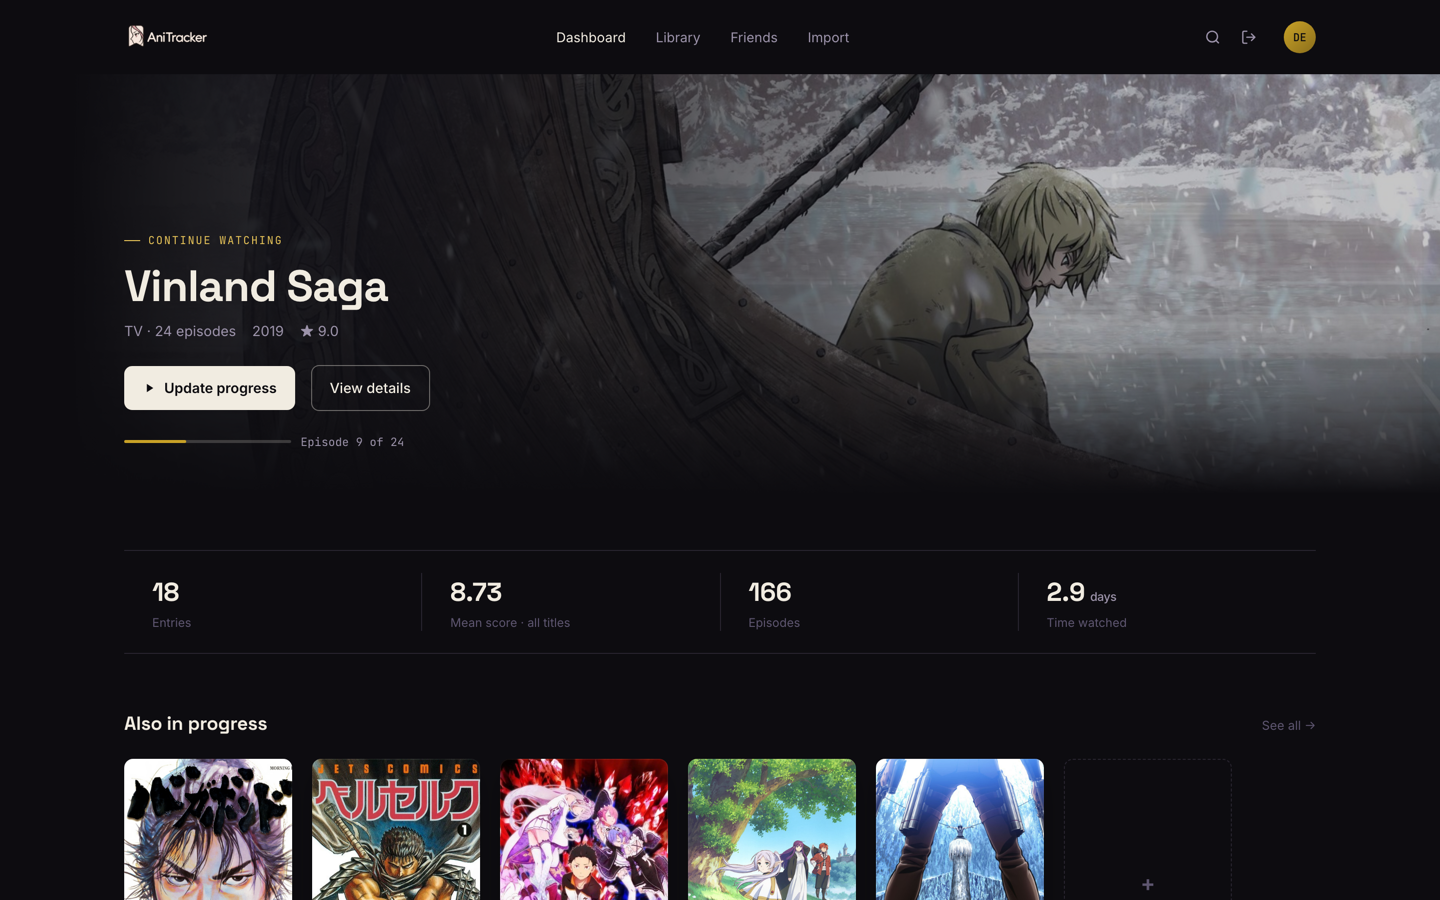
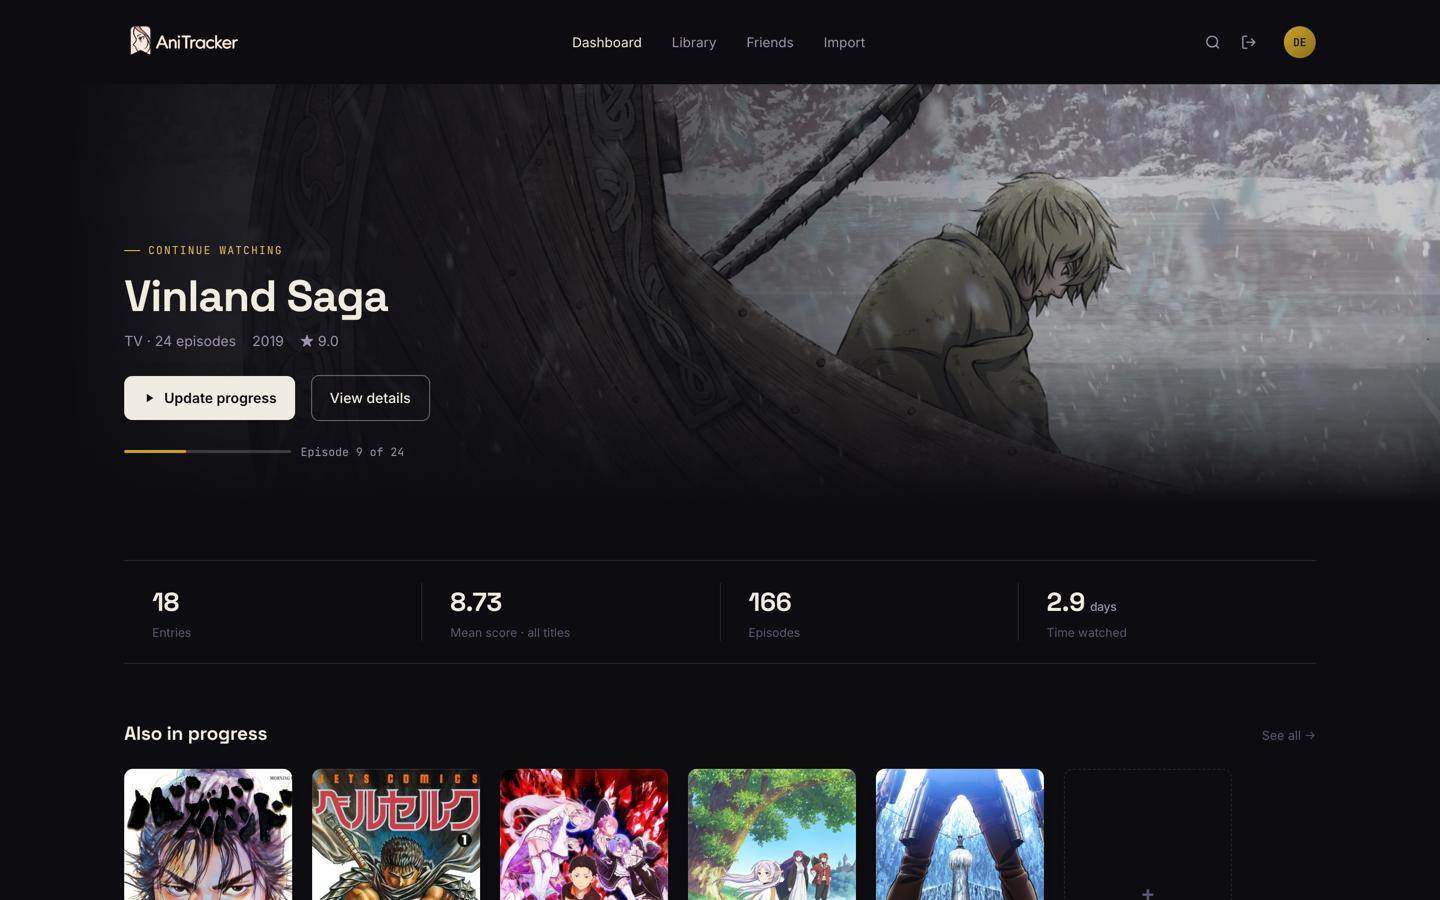
feat: update TopBar component for improved branding and responsiveness

diff --git a/frontend/src/components/layout/TopBar.tsx b/frontend/src/components/layout/TopBar.tsx
@@ -77,14 +77,19 @@ export function TopBar() {
         <NavLink to="/" className="flex shrink-0 items-center gap-[9px] pointer-coarse:min-h-[44px]">
           {usesDefaultBrand ? (
             <>
+              {/* The mark is 8:3, so height drives the width: h-11 is ~117px, still
+                  inside the max-width guard. Held back a step on a phone, where the
+                  bar also carries the search, logout and account controls. */}
               <img
                 src="/logo.png"
                 alt="AniTracker"
-                className="brand-dark-only h-8 w-auto max-w-[150px] object-contain"
+                className="brand-dark-only h-9 w-auto max-w-[150px] object-contain sm:h-11"
               />
+              {/* Light mode draws the same brand as icon + wordmark, so it grows in
+                  step — otherwise switching theme changes the header's weight. */}
               <span className="brand-light-only brand-light-lockup items-center gap-[9px]">
-                <img src="/icon-192.png" alt="" className="h-6 w-6 rounded-[6px]" />
-                <span className="font-display text-[15px] font-bold tracking-[0.02em]">
+                <img src="/icon-192.png" alt="" className="h-7 w-7 rounded-[7px] sm:h-8 sm:w-8" />
+                <span className="font-display text-[16px] font-bold tracking-[0.02em] sm:text-[18px]">
                   {instanceName.toUpperCase()}
                 </span>
               </span>
